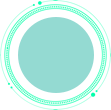
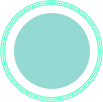
llll--总裁办：修改时钟样式

Changed region(s): [[0.0, 0.0, 1.0, 1.0]]

diff --git a/src/components/common/president-component/clock.vue b/src/components/common/president-component/clock.vue
@@ -57,16 +57,35 @@
   }
 </script>
 
+<style lang="scss">
+  #clockTime{
+    .clock{
+      width: 100px;
+      height: 100px;
+      margin:auto 28px auto 0;
+      .clock-circle{
+        width: 5px;
+        height: 5px;
+        background-color:#00FFFF;
+        border: 2px solid #00FFFF;
+      }
+      .clock-circle:before{
+        width: 2px;
+        height: 2px;
+        background-color:#00FFFF;
+      }
+      .clock-hour, .clock-minute, .clock-second{
+        background-color:#00FFFF;
+      }
+    }
+  }
+</style>
+
 <style scoped lang="scss">
   @import "../../../assets/scss/president/common.scss";
   #clockTime{
     display: flex;
     justify-content: flex-start;
-    .clock{
-      width: 76px;
-      height: 76px;
-      margin:auto 28px auto 0;
-    }
     .date_time{
       color:#00FFFF;
       margin: auto 0;

diff --git a/src/components/president/office.vue b/src/components/president/office.vue
@@ -55,21 +55,11 @@
 </script>
 
 <style lang="scss">
-  #clockTime{
-    .clock{
-      .clock-circle{
-        width: 5px;
-        height: 5px;
-        background-color:#00FFFF;
-        border: 2px solid #00FFFF;
-      }
-      .clock-circle:before{
-        width: 2px;
-        height: 2px;
-        background-color:#00FFFF;
-      }
-     .clock-hour,.clock-minute,  .clock-second{
-        background-color:#00FFFF;
+  #department{
+    #clockTime{
+      .clock{
+        width: 80px;
+        height: 80px;
       }
     }
   }
@@ -77,6 +67,7 @@
 
 <style lang="scss" scoped>
   @import "../../assets/scss/president/common.scss";
+  @import "../../assets/scss/president/index.scss";
   #department{
     padding-top: 80px;
     color: #00FFFF;

diff --git a/src/components/president/index.vue b/src/components/president/index.vue
@@ -431,29 +431,6 @@
   };
 </script>
 
-<style lang="scss">
-  #clockTime{
-    .clock{
-      .clock-circle{
-        width: 5px;
-        height: 5px;
-        background-color:#00FFFF;
-        border: 2px solid #00FFFF;
-      }
-      .clock-circle:before{
-        width: 2px;
-        height: 2px;
-        background-color:#00FFFF;
-      }
-      .clock-hour, .clock-minute, .clock-second{
-        background-color:#00FFFF;
-      }
-    }
-  }
-
-</style>
-
-
 <style lang="scss" scoped>
   @import "../../assets/scss/president/common.scss";
   @import "../../assets/scss/president/index.scss";
